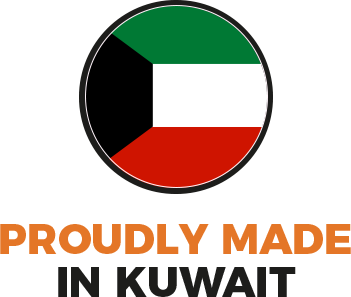
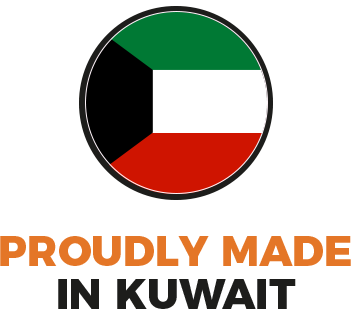
private labels

diff --git a/styles.css b/styles.css
@@ -1120,7 +1120,7 @@ button:hover {
   }
   
   .madekuwait {
-    transform: translate(0, 20px);
+    /* transform: translate(0, 20px); */
     /* transform: scale(0); */
     animation: slideInFromLeftFeatures 2s ease-in-out;
   }
@@ -1138,10 +1138,10 @@ button:hover {
 
   @keyframes slideInFromLeftFeatures {
     0% {
-      transform: scale(0.2) translate(-300%, 20px);
+      transform: scale(0.2) translate(-300%, 0);
     }
     100% {
-      transform: scale(1) translate(0, 20px);
+      transform: scale(1) translate(0, 0);
     }
   }
 
@@ -1331,7 +1331,7 @@ button:hover {
   
   .view-ig {
     display:flex;
-    margin-left: 300px;
+    justify-content: center;
     transform: scale(0);
     transition: transform 1s ease-out;
   }
@@ -1763,10 +1763,10 @@ button:hover {
   display: flex;
   justify-content: start;
   margin-top: 20px;
-  position: relative; 
-  bottom: -50px; 
+  position: absolute; 
+  bottom: 100px; 
   width: 100%;
-  left: 0px;
+  left: 130px;
 }
 
 .dot {
